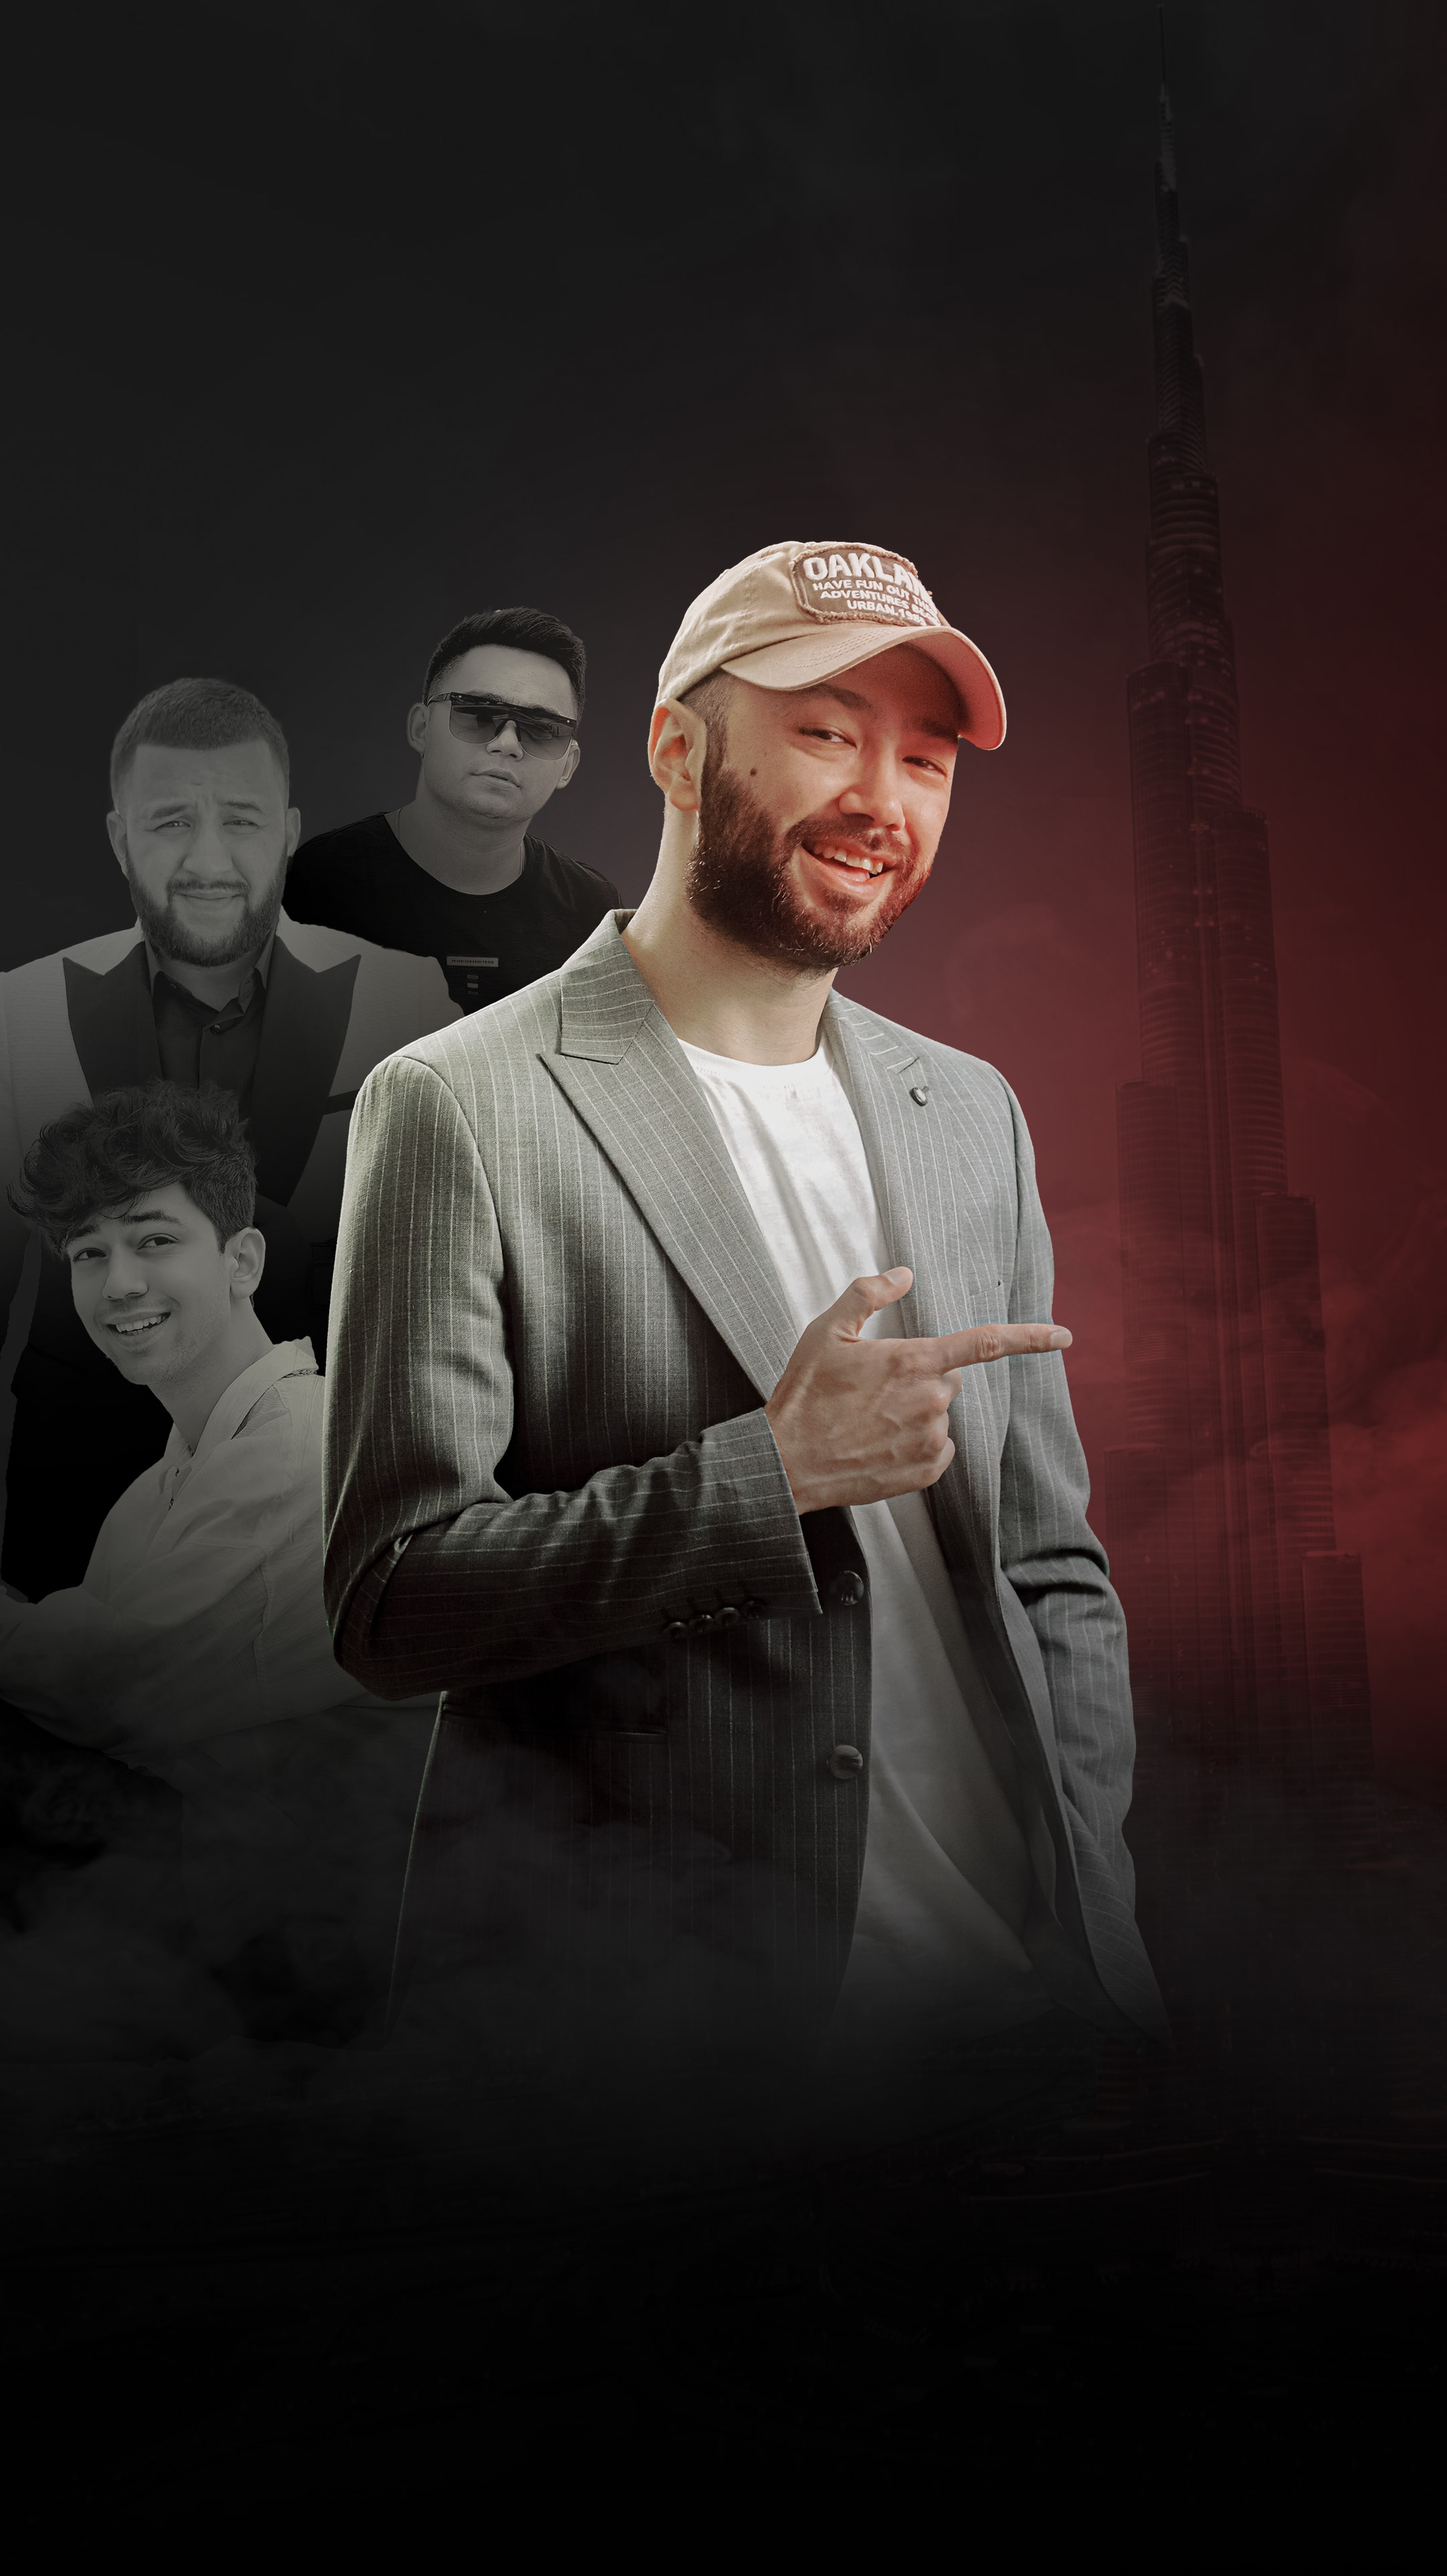
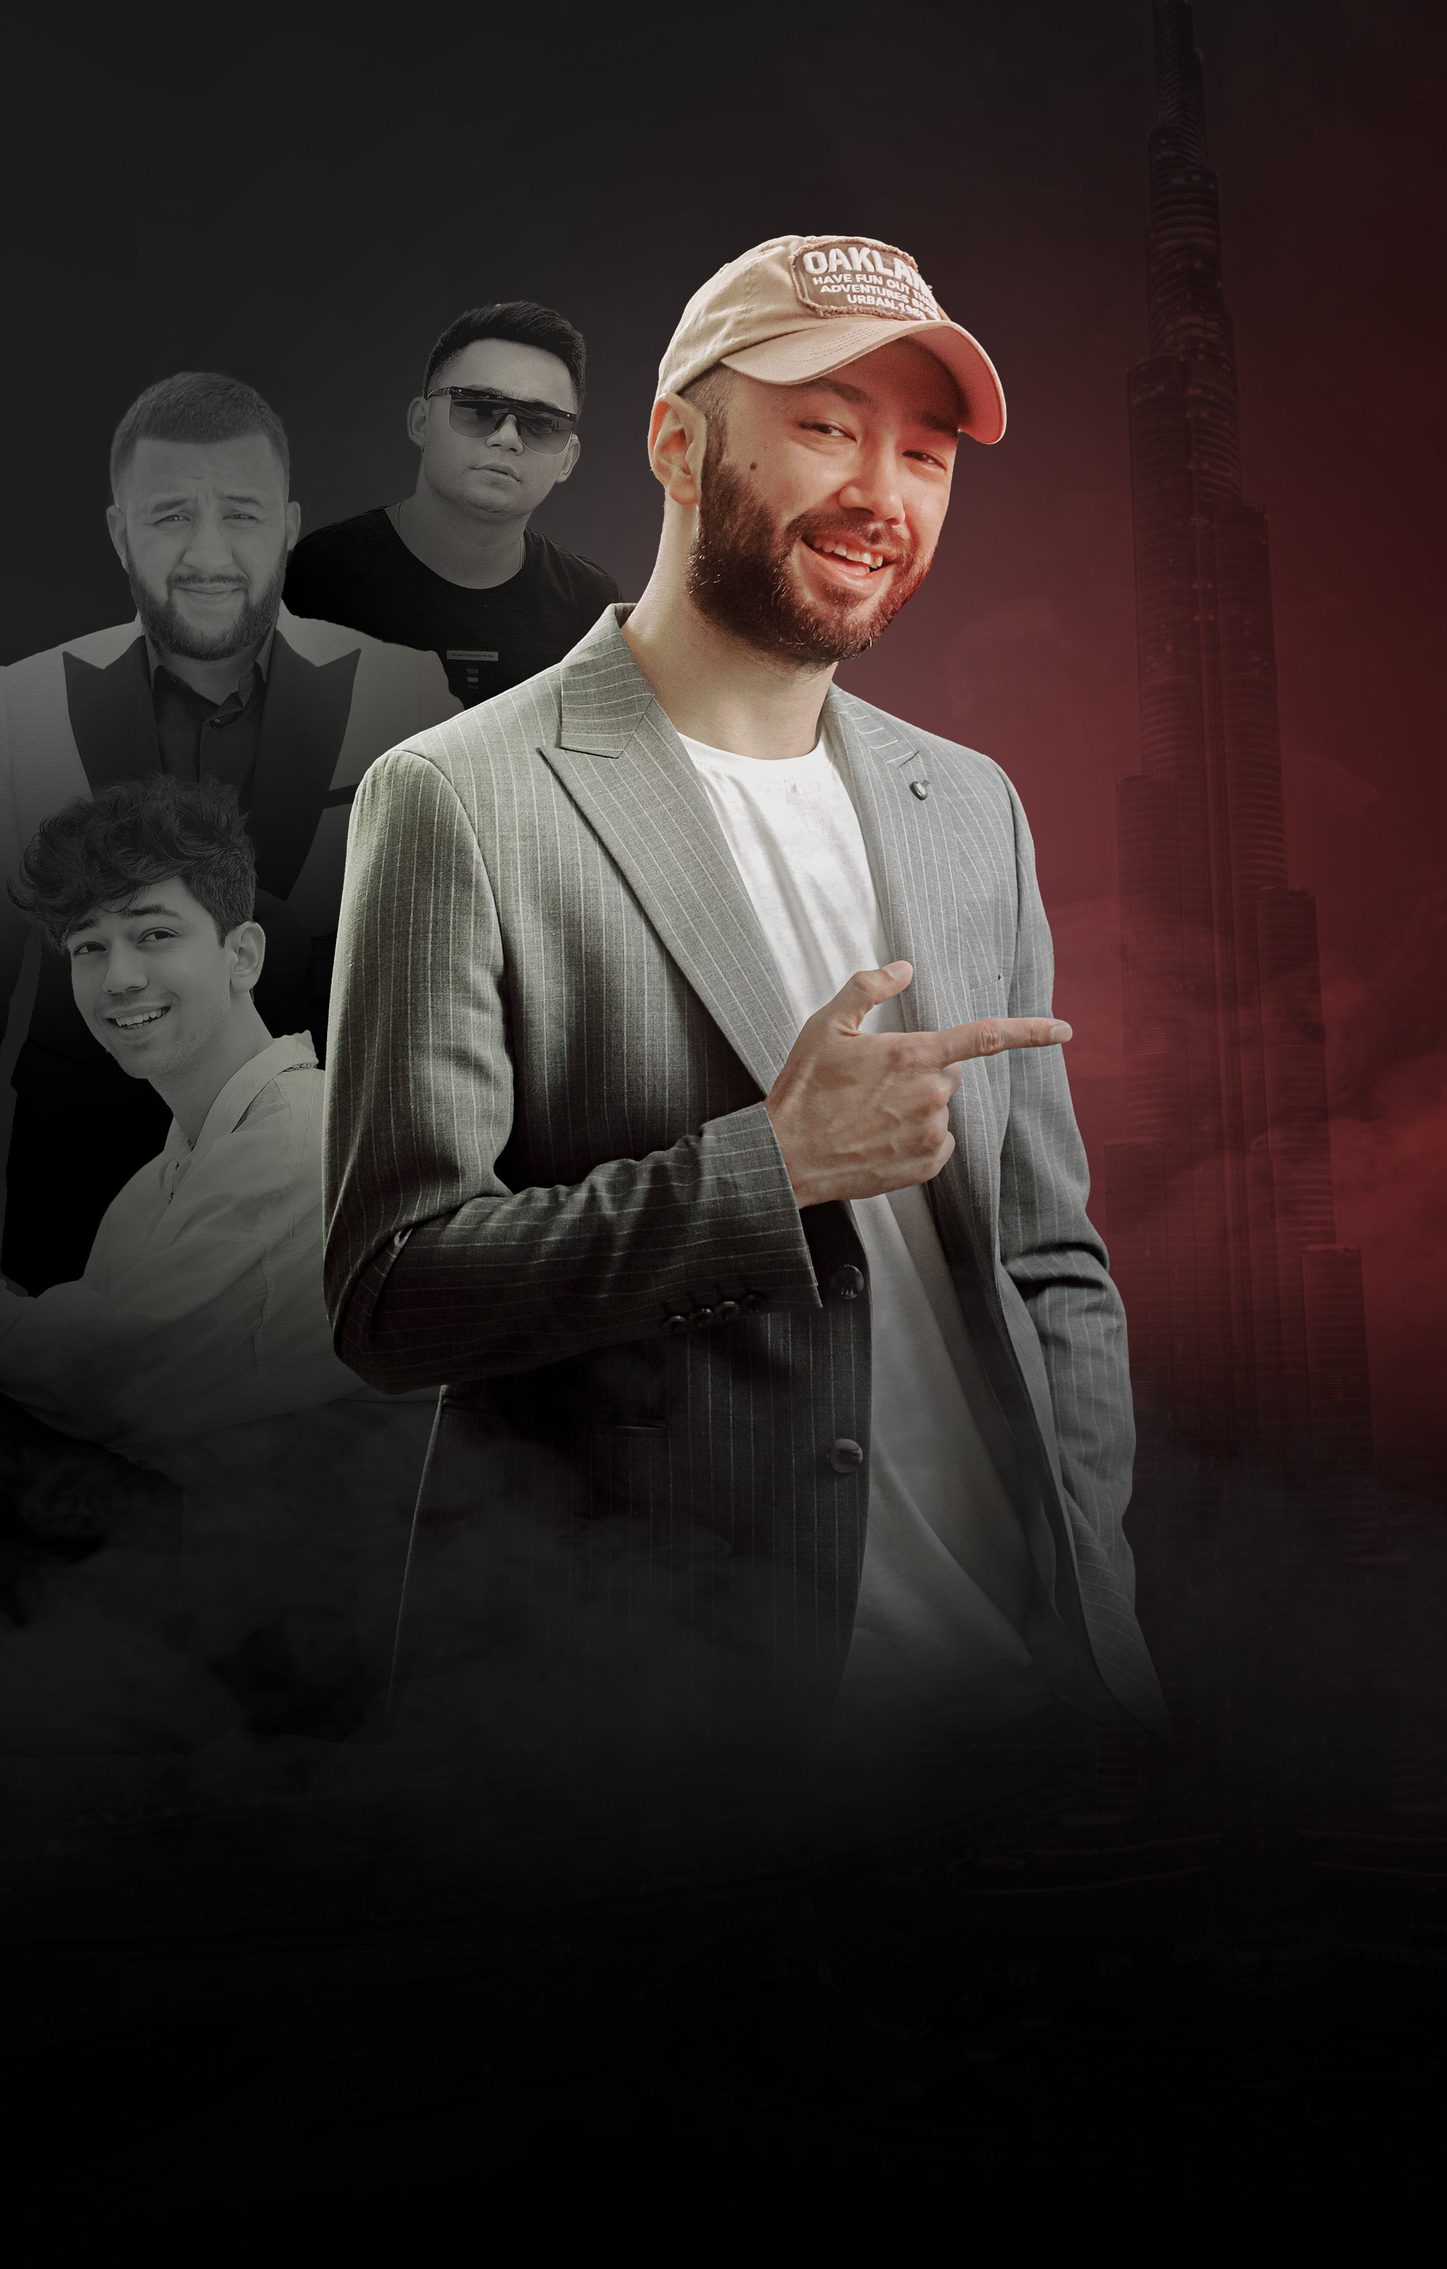
mobile index photo

Changed region(s): [[0.0, 0.0931, 1.0, 0.7757], [0.8069, 0.1241, 0.8379, 0.1551], [0.3414, 0.6516, 0.3724, 0.6826]]

diff --git a/pages/index.js b/pages/index.js
@@ -66,7 +66,7 @@ function Home({ products, mainLayoutSocial, projects, indexText }) {
             className="block p-14 md:p-0"
             style={{
               backgroundImage: `url("/img/mobileMain.jpg")`,
-              backgroundPosition: "center",
+              backgroundPosition: "top",
               backgroundSize: "cover"
             }}
           >

diff --git a/components/Invest/Invest.js b/components/Invest/Invest.js
@@ -80,7 +80,7 @@ export default function Invest({ products, investLang }) {
         progressColorTo="#a15400"
         verticalOffset="1rem"
         progressSize={8}
-        trackColor="#ffffff"
+        trackColor="#ffffff94"
         trackSize={20}
         data={sliderValues} //...
         dataIndex={0}
